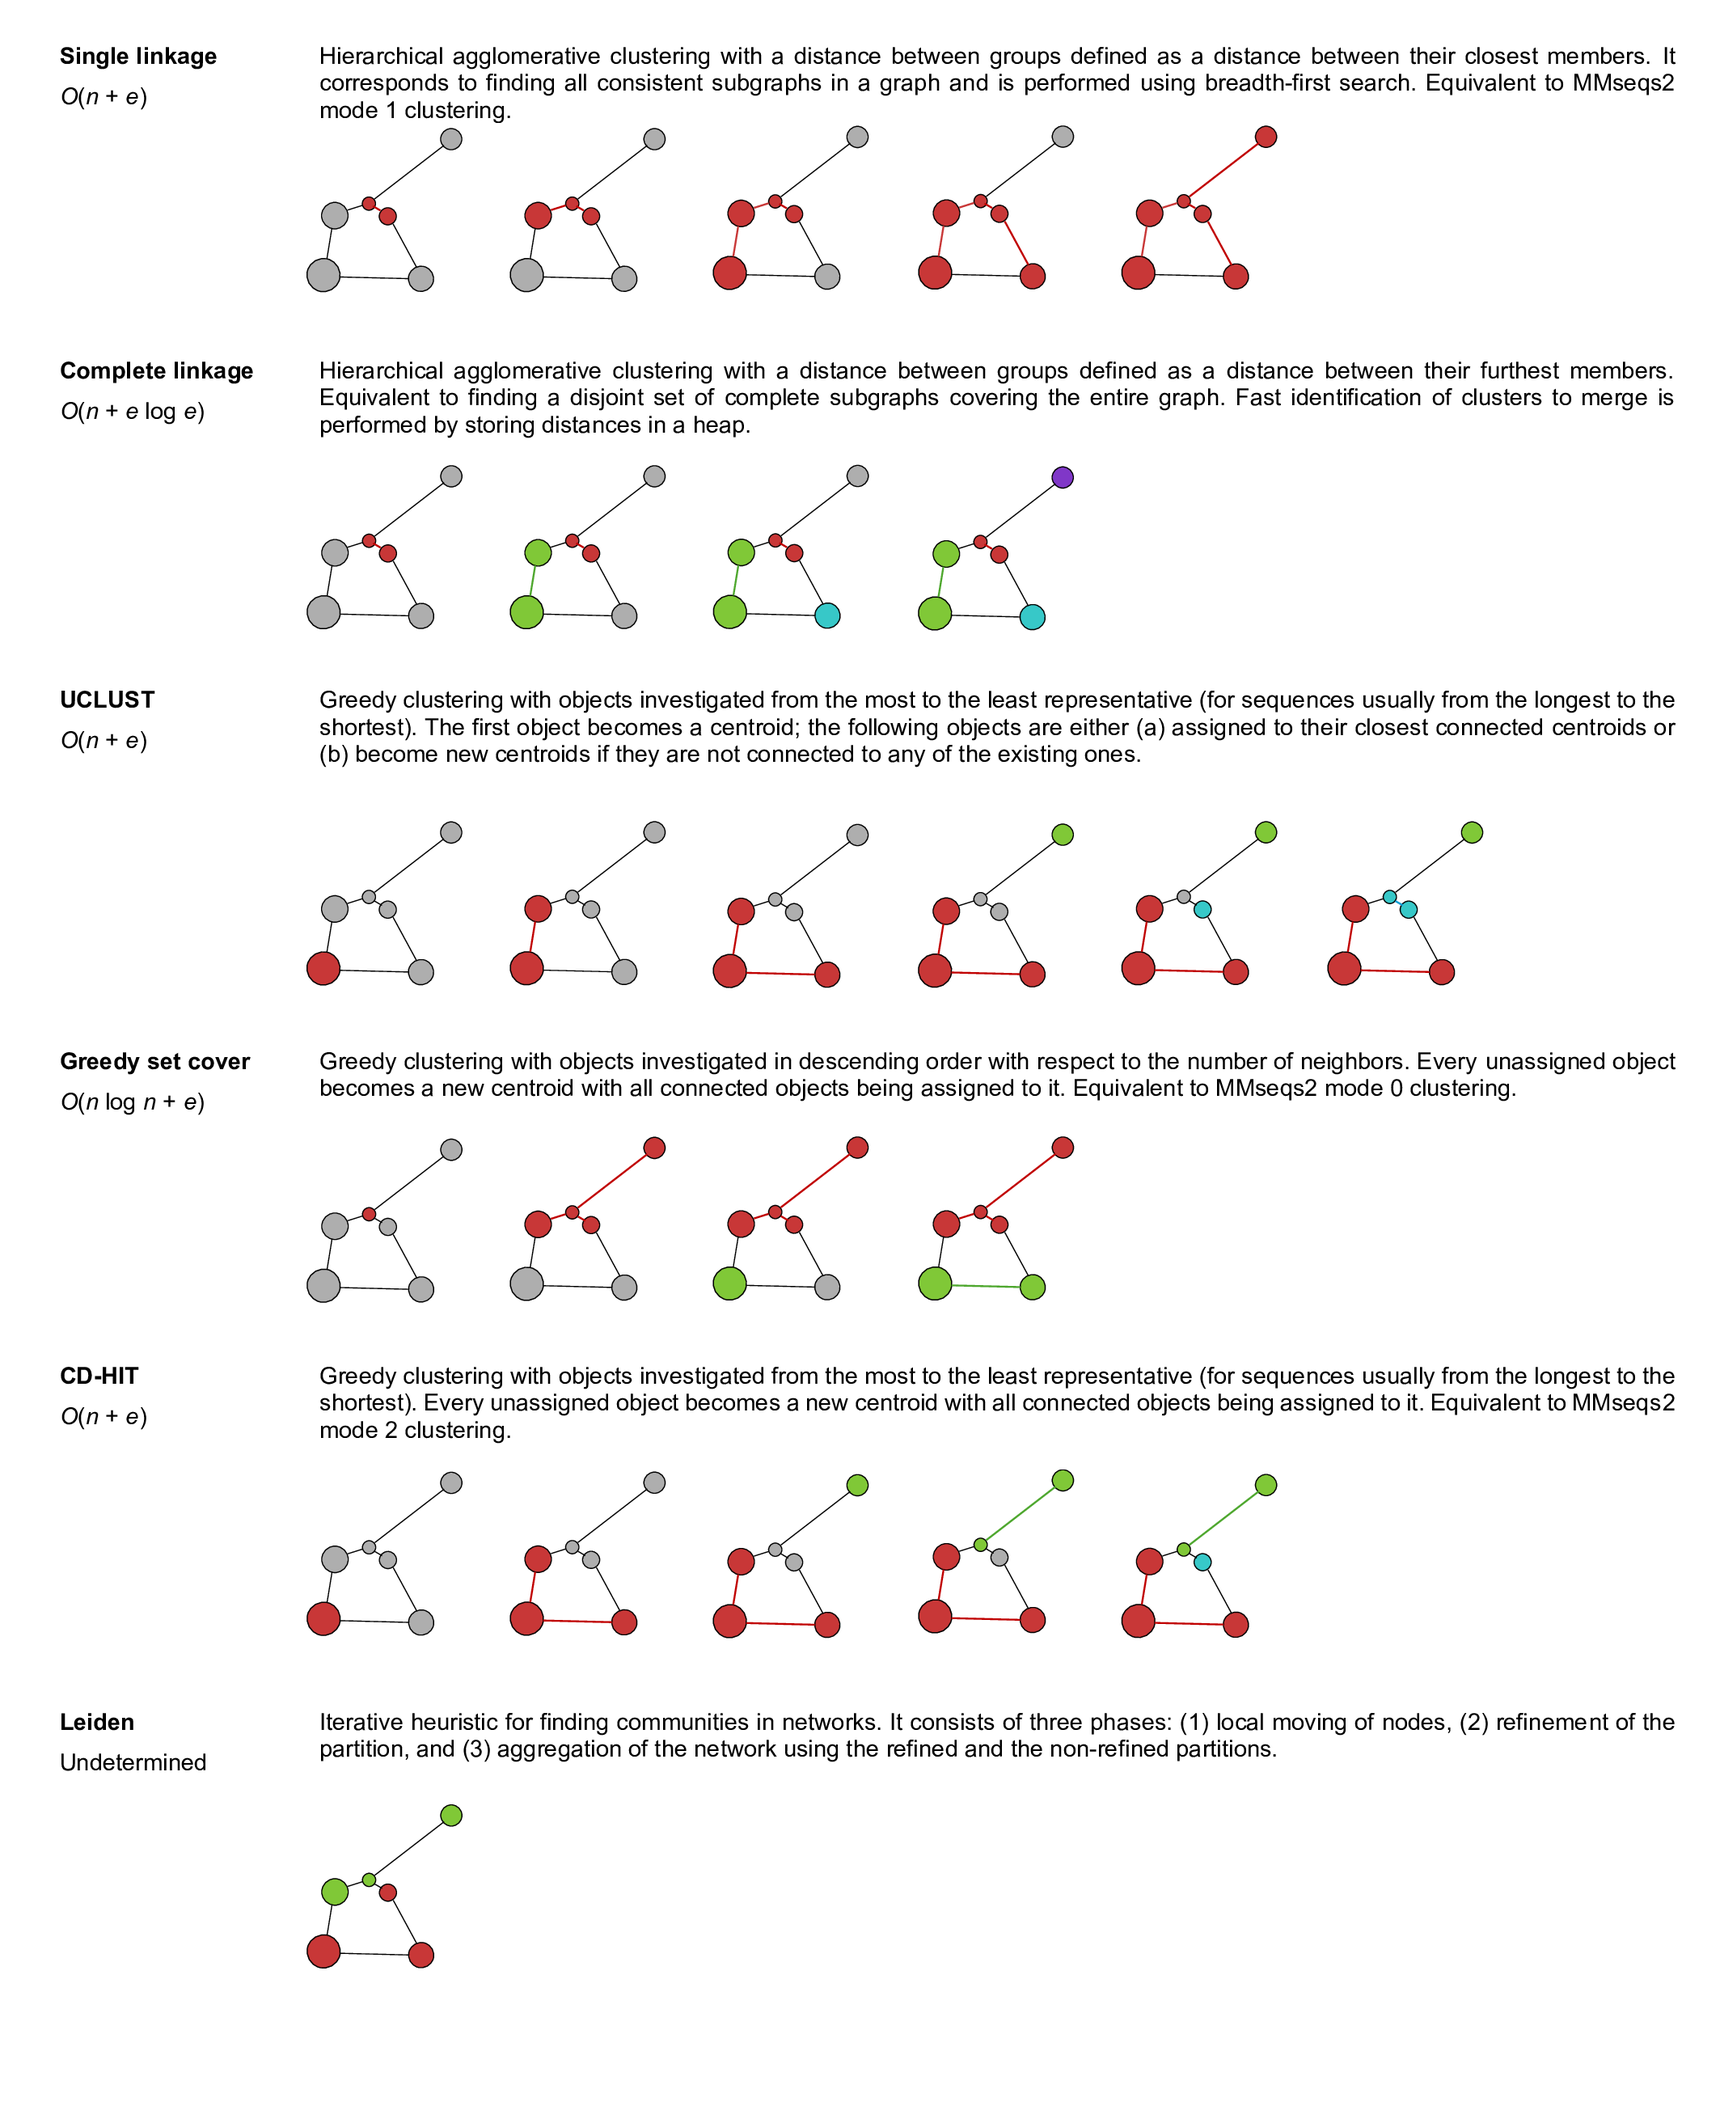
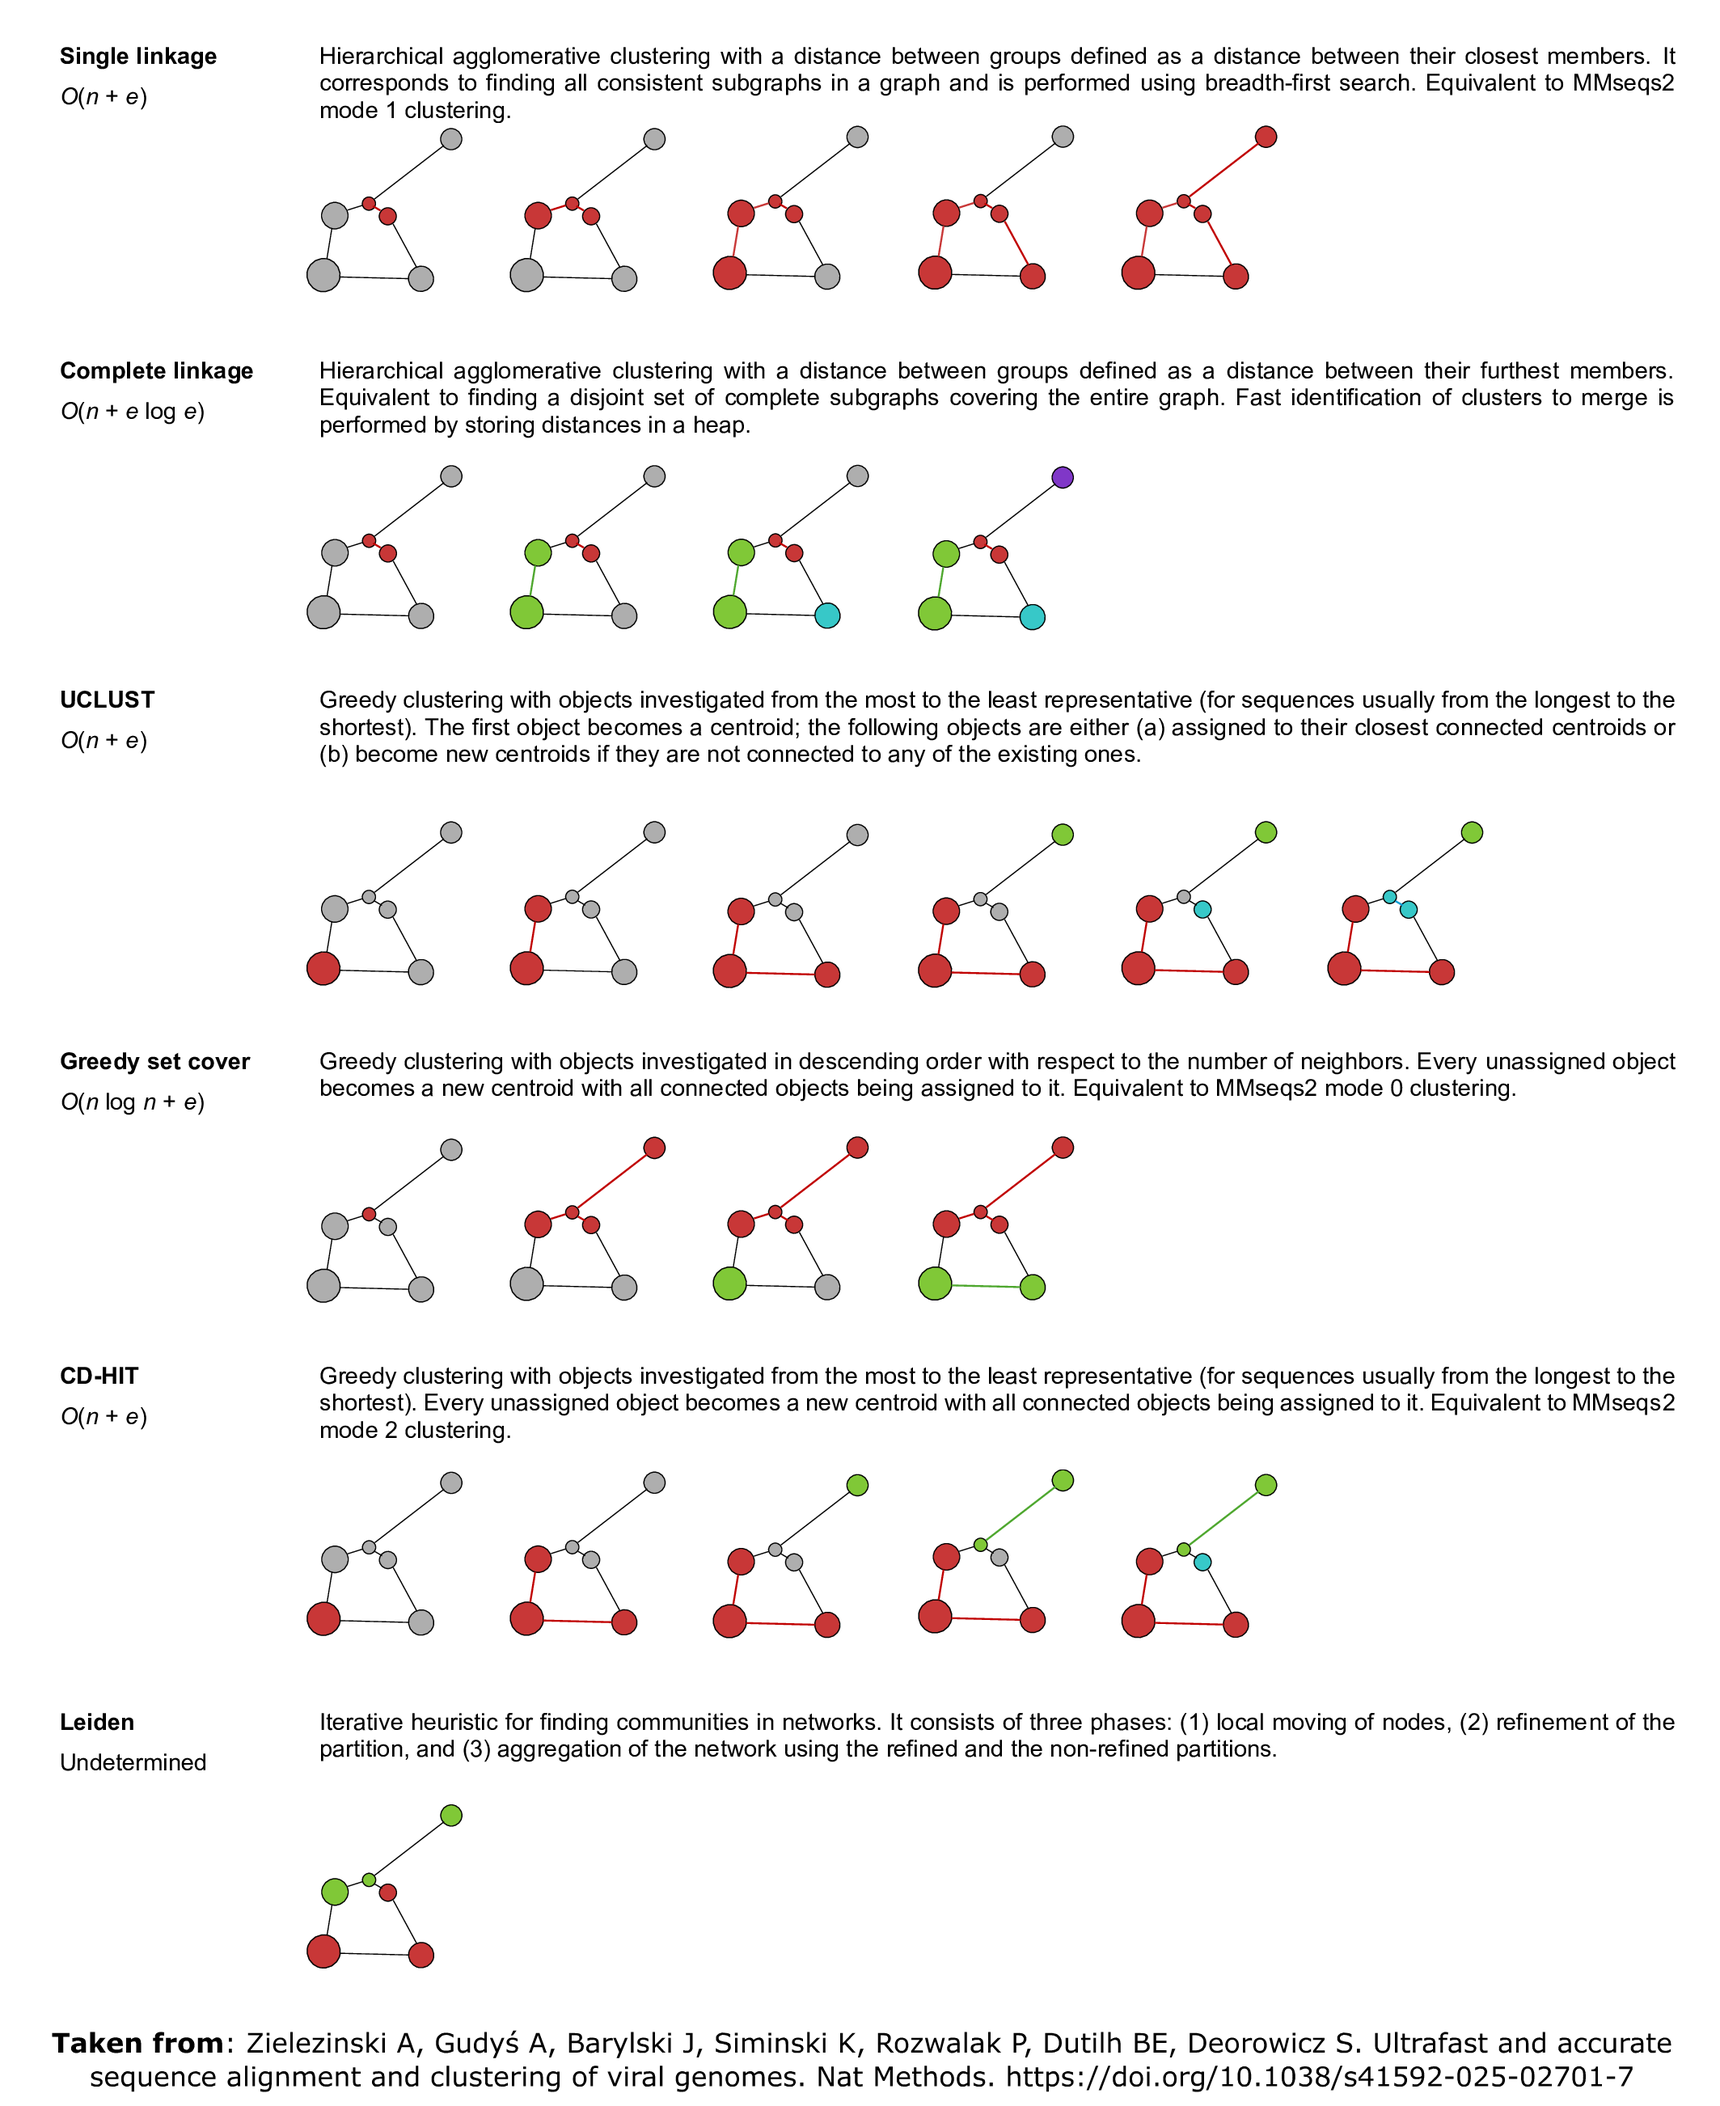
change changelog & doc images

Changed region(s): [[0.031, 0.9643, 0.9619, 0.9954]]

diff --git a/CHANGELOG.md b/CHANGELOG.md
@@ -3,7 +3,7 @@
 The format is based on [Keep a Changelog](https://keepachangelog.com/en/1.0.0/)
 and this project adheres to [Semantic Versioning](https://semver.org/spec/v2.0.0.html).
 
-## v1.1.0dev - YYYY-MM-DD
+## v1.1.0 - 2026-01-23
 
 ### `Added`
 
